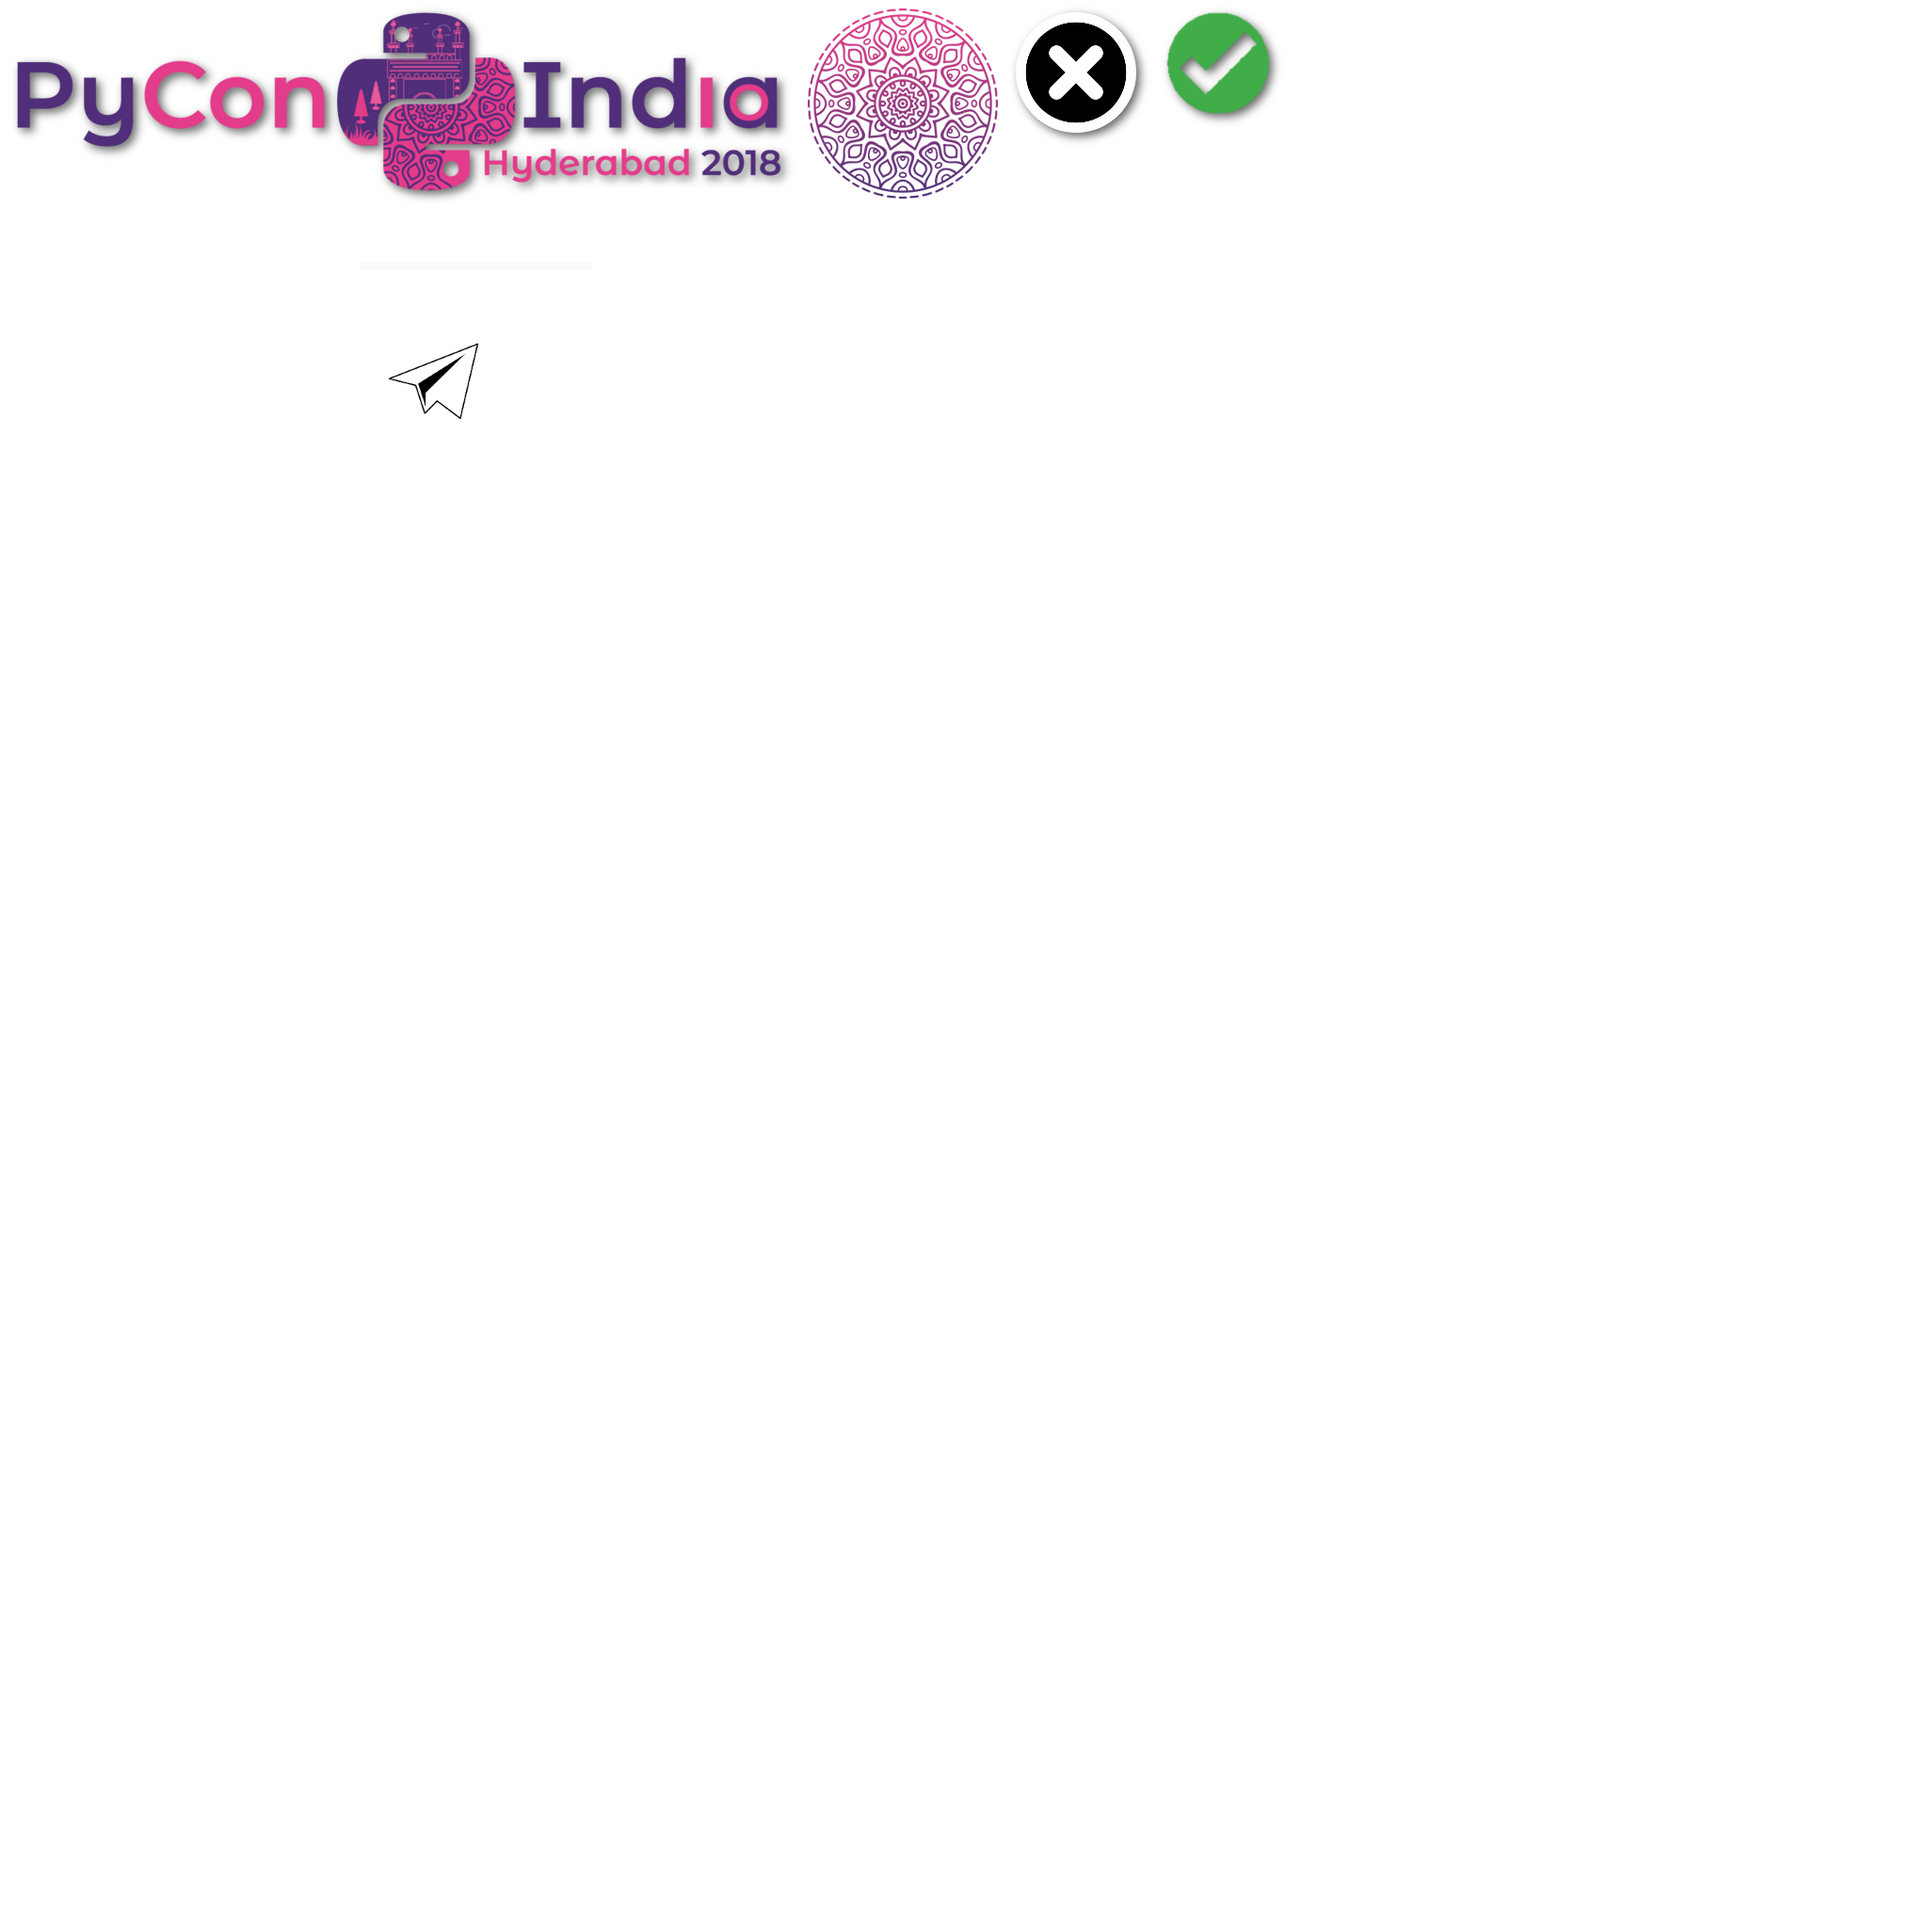
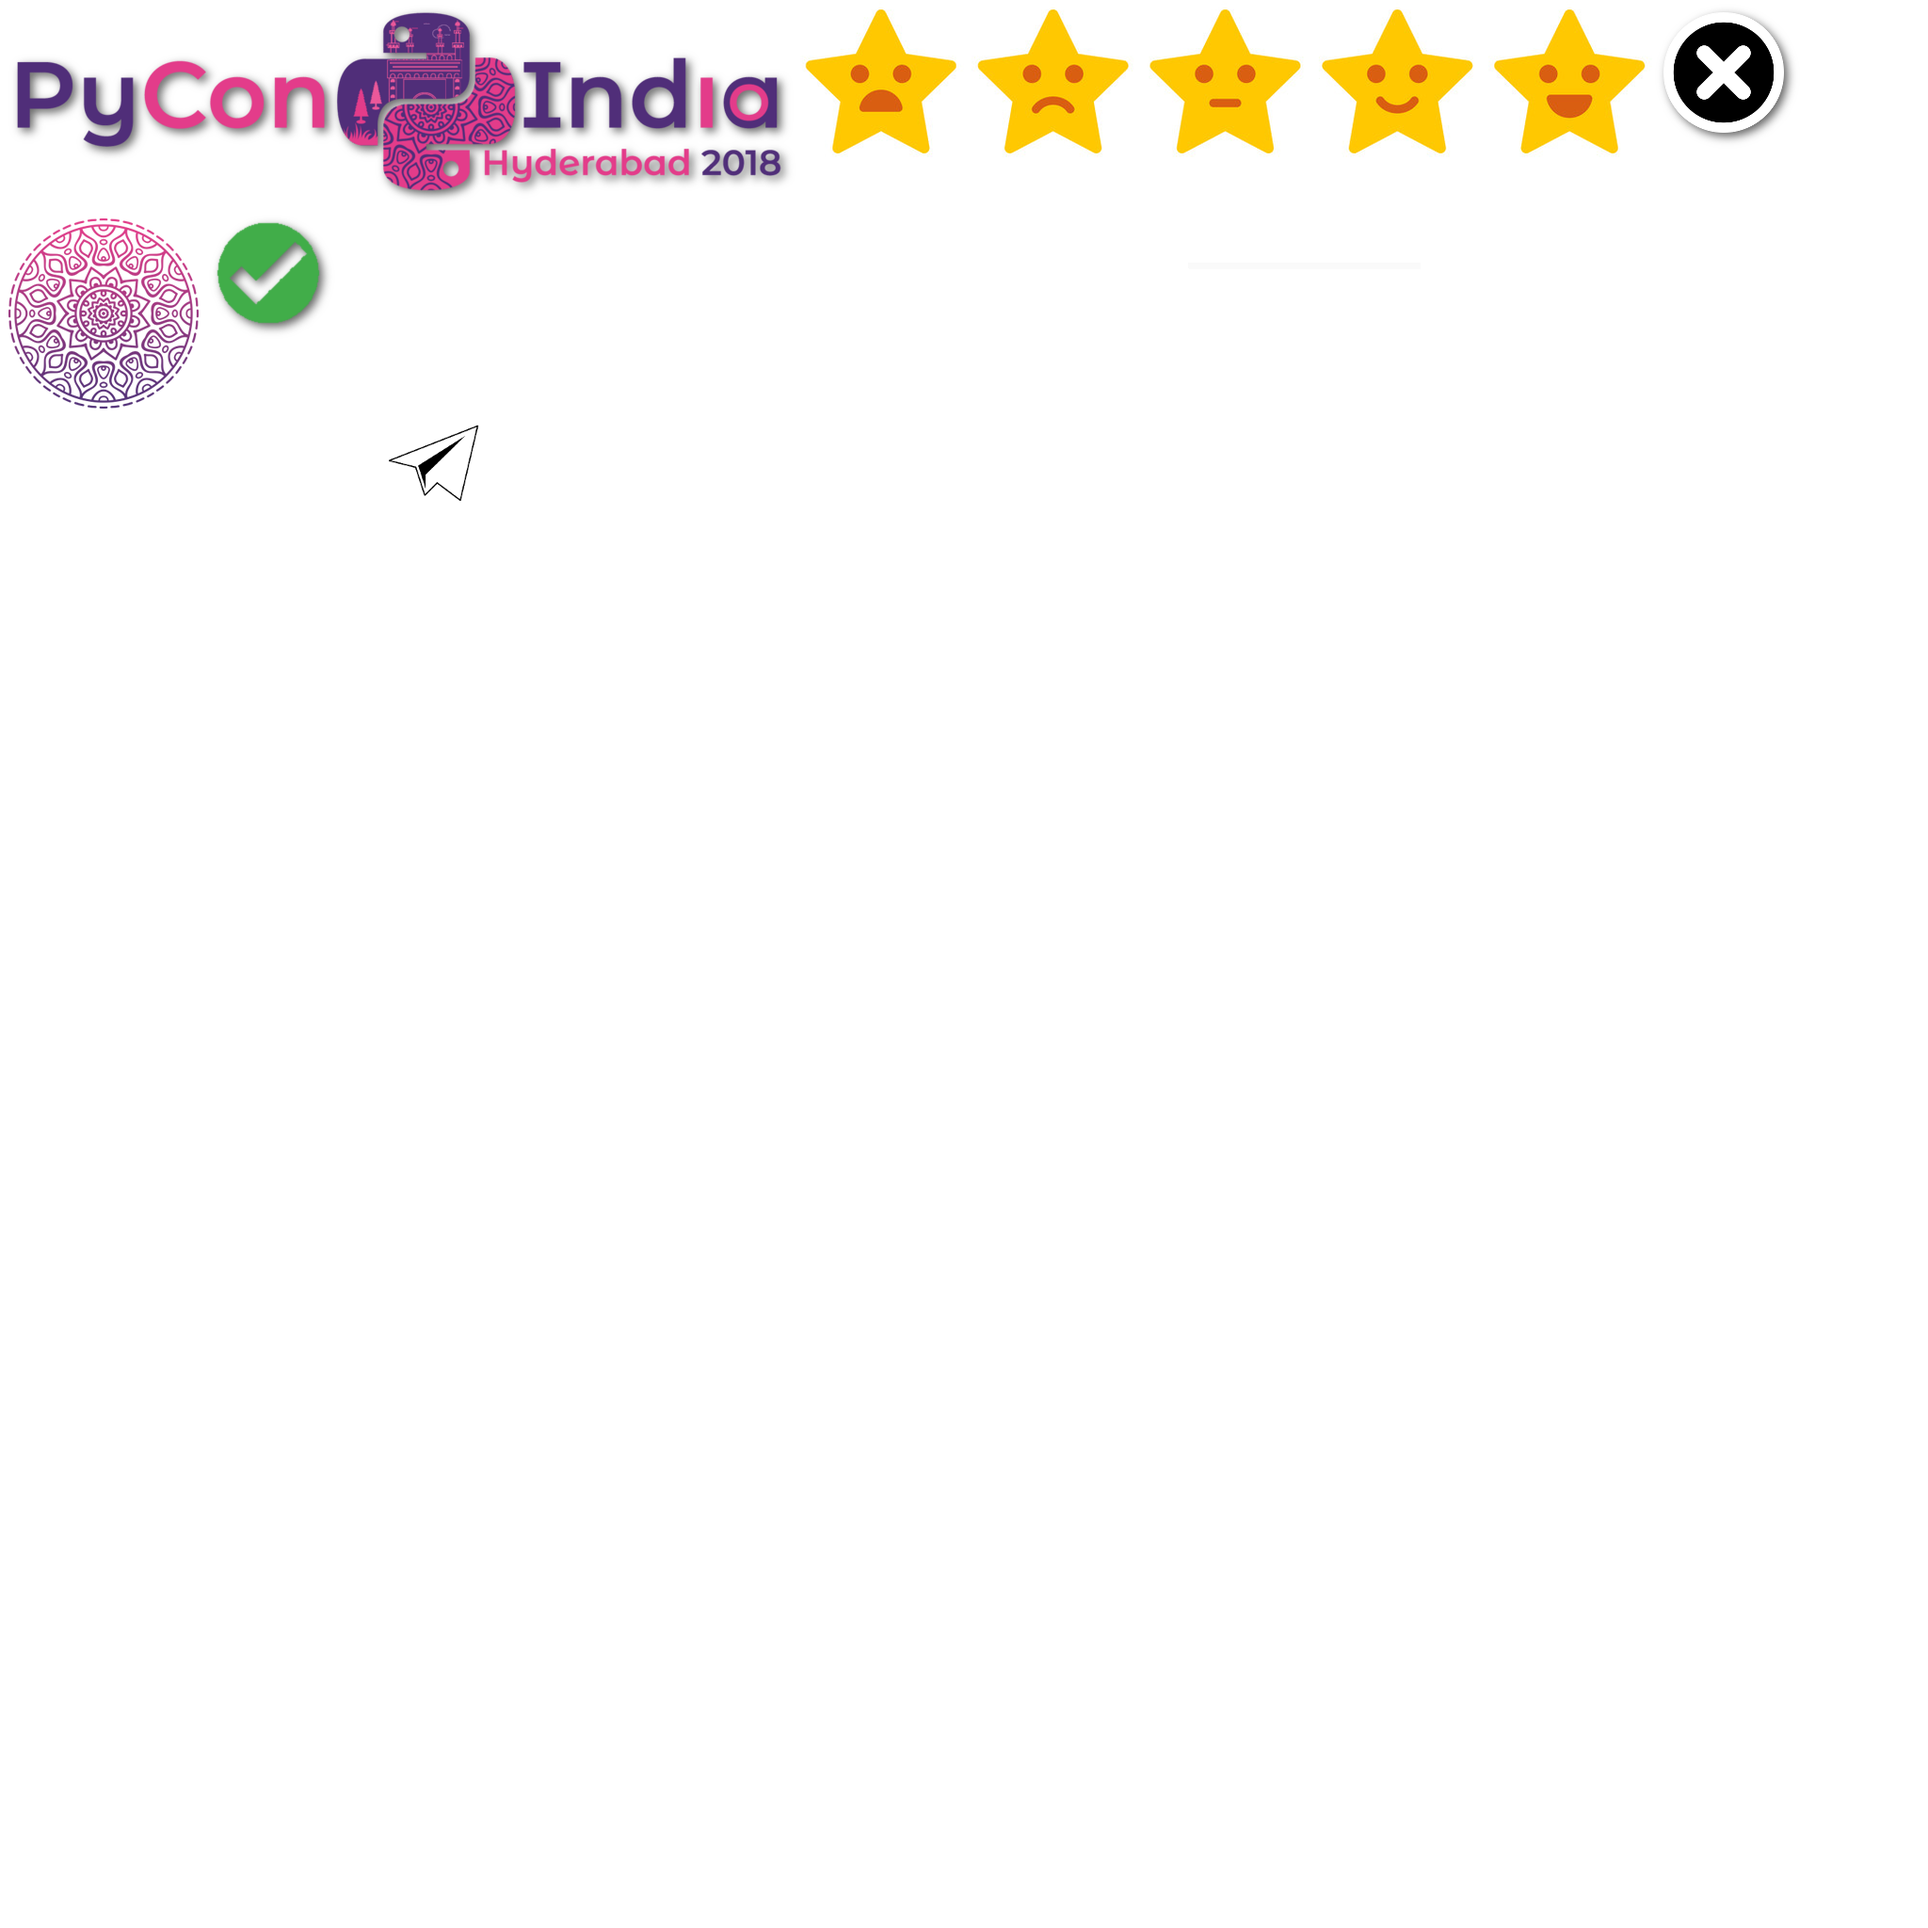
include feedback

Changed region(s): [[0.4062, 0.0, 0.9375, 0.0938], [0.0, 0.0938, 0.1875, 0.2188], [0.2188, 0.1875, 0.25, 0.25]]

diff --git a/eventsapp/uix/screens/screenfeedback.py b/eventsapp/uix/screens/screenfeedback.py
@@ -1,17 +1,79 @@
 from kivy.uix.screenmanager import Screen
 from kivy.lang import Builder
-from kivy.app import App
-import webbrowser
 
 
 class ScreenFeedback(Screen):
     Builder.load_string('''
 <ScreenFeedback>
     name: 'ScreenFeedback'
+    talk: ''
+    ScrollView
+        id: main
+        ScrollGrid
+            padding: '9dp'
+            spacing: '9dp'
+            BackLabel
+                text: "Feedback for " + root.talk
+                backcolor: app.base_active_color[:3] + [.5]
+                # size_hint_y: None
+                # height: dp(100)
+            BoxLayout
+                size_hint_y: None
+                height: dp(45)
+                BackLabel
+                    text: 'Rating: {}'.format(sldr.value)
+                    size_hint_x: .5
+                    pos_hint: {'center_y': .5}
+                Slider
+                    id: sldr
+                    canvas.after:
+                        Color:
+                            rgba: 1, 1, 1, .9
+                        Rectangle:
+                            size: self.size
+                            pos: self.value_pos[0], self.y
+                    cursor_image: 'atlas://data/default/transparent'
+                    background_horizontal: 'atlas://data/default/ratingrankin'
+                    border_horizontal: 0, 0, 0, 0
+                    min: 0
+                    max: 10
+            TextInput:
+                id: ti_description
+                size_hint_y: None
+                height: dp(220)
+                hint_text: 'Enter detailed feedback here...'
+            TextInput:
+                id: ti_name
+                size_hint_y: None
+                height: dp(45)
+                hint_text: 'Your Name here...'
+            TextInput:
+                id: ti_ticketid
+                size_hint_y: None
+                height: dp(45)
+                hint_text: 'Your Ticket ID...'
+            ActiveButton
+                text: 'Submit'
+                size_hint_y: None
+                height: dp(45)
+                on_released:
+                    rating = '{} out of {}'.format(sldr.value, sldr.max)
+                    title = 'Title: ' + root.talk
+                    detailed_description = "Description:" + ti_description.text
+                    name = "Name: " + ti_name.text
+                    ticketid = "Ticketid: " + ti_ticketid.text
+                    import webbrowser
+                    webbrowser.open(\
+                    "mailto:feedback@in.pycon.org?Subject=TalkFeedback&body" +\
+                    "={}".format("\\n\\n".join((rating, title, detailed_description\
+                    , name, ticketid))))
 ''')
 
     def on_pre_enter(self):
-        webbrowser.open('https://feedback.in.pycon.org')
+        self.manager.transition.direction = 'up'
 
-    def on_enter(self):
-    	pass
+    def on_pre_leave(self):
+        self.manager.transition.direction = 'down'
+
+    def on_leave(self):
+        self.manager.transition.direction = 'left'

diff --git a/eventsapp/uix/screens/screentalks.py b/eventsapp/uix/screens/screentalks.py
@@ -86,13 +86,16 @@ class ScreenTalks(Screen):
                 source: 'atlas://data/default/share'
                 color: app.base_active_bright[:3] + [.9]
                 on_release: do_share(self.data, "PyCon India 2018")
-            ImBut
-                data: ''
-                source: 'atlas://data/default/reminder'
-                color: app.base_active_bright[:3] + [.9]
+            # ImBut
+            #     data: ''
+            #     source: 'atlas://data/default/reminder'
+            #     color: app.base_active_bright[:3] + [.9]
             ImBut
                 source: 'atlas://data/default/feedback'
                 color: app.base_active_bright[:3] + [.9]
+                on_release:
+                    scr = load_screen("ScreenFeedback", manager=root.manager)
+                    scr.talk = talk_title.text
         ''')
 
     def on_pre_enter(self):
@@ -103,6 +106,7 @@ class ScreenTalks(Screen):
         container = self.ids.container
 
         if self.from_back:
+            Factory.Animation(opacity=1, d=.3).start(container)
             return
 
         if len(container.children) > 2:

diff --git a/eventsapp/uix/screens/screenvenue.py b/eventsapp/uix/screens/screenvenue.py
@@ -4,12 +4,11 @@ Display all the information about venue.
 
 from kivy.uix.screenmanager import Screen
 from kivy.lang import Builder
-from kivy.uix.image import Image
-from kivy.garden.mapview import MapView
-from kivy.garden.mapview import MapMarker
+from kivy.garden.mapview import MapView, MapMarker
+
 
 class ScreenVenue(Screen):
-    
+
     Builder.load_string('''
 <ScreenVenue>
     name: 'ScreenVenue'

diff --git a/eventsapp/uix/screens/navigationscreen.py b/eventsapp/uix/screens/navigationscreen.py
@@ -133,7 +133,7 @@ class NavigationScreen(Screen):
         keep_ratio: False
         on_parent:
             self.texture.wrap = 'repeat'
-            self.texture.uvsize = 7, 22
+            self.texture.uvsize = self.width/2., self.height/2
         #color: 225./255., 225./255., 225./255., 1
     Image
         mipmap: True
